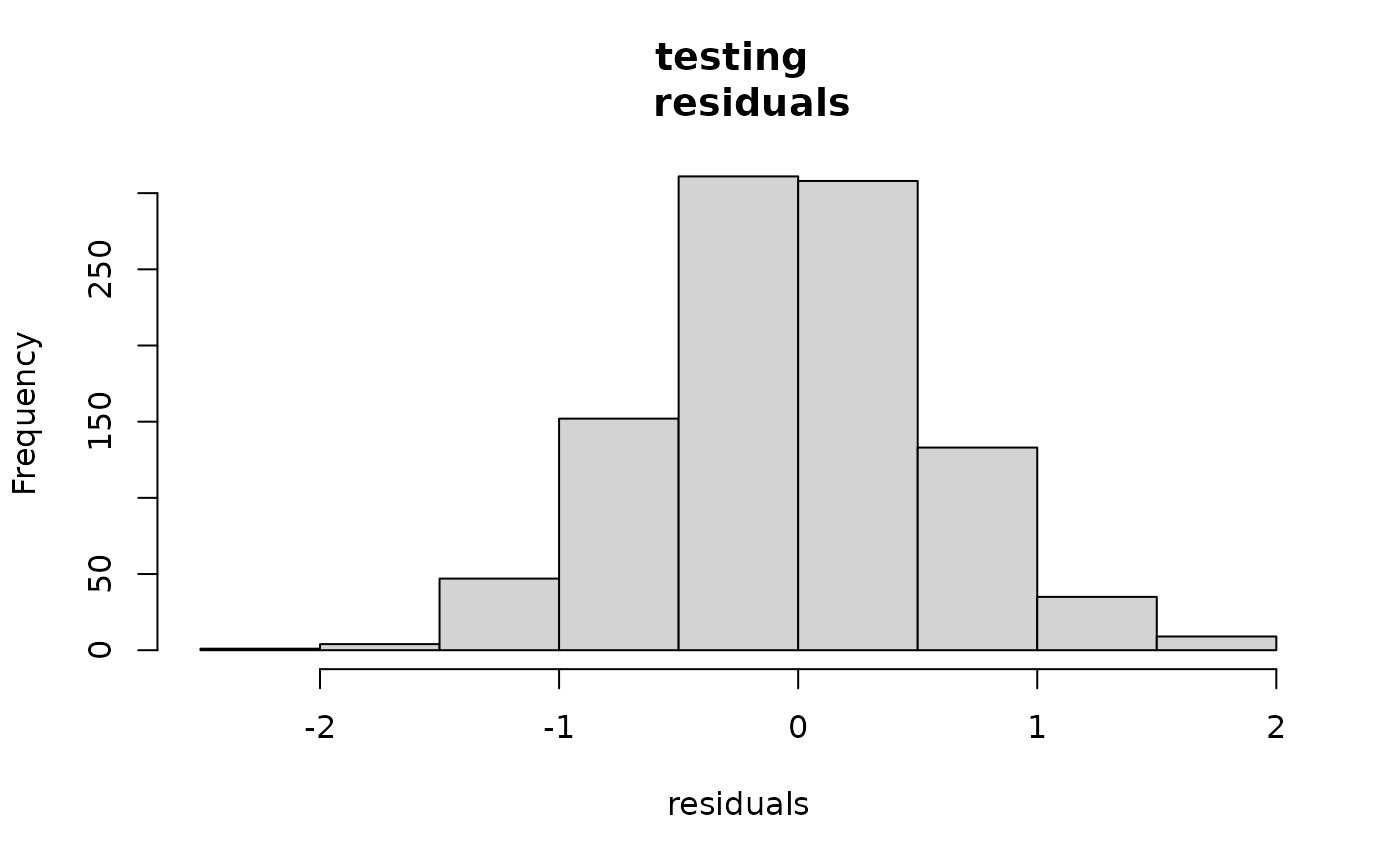
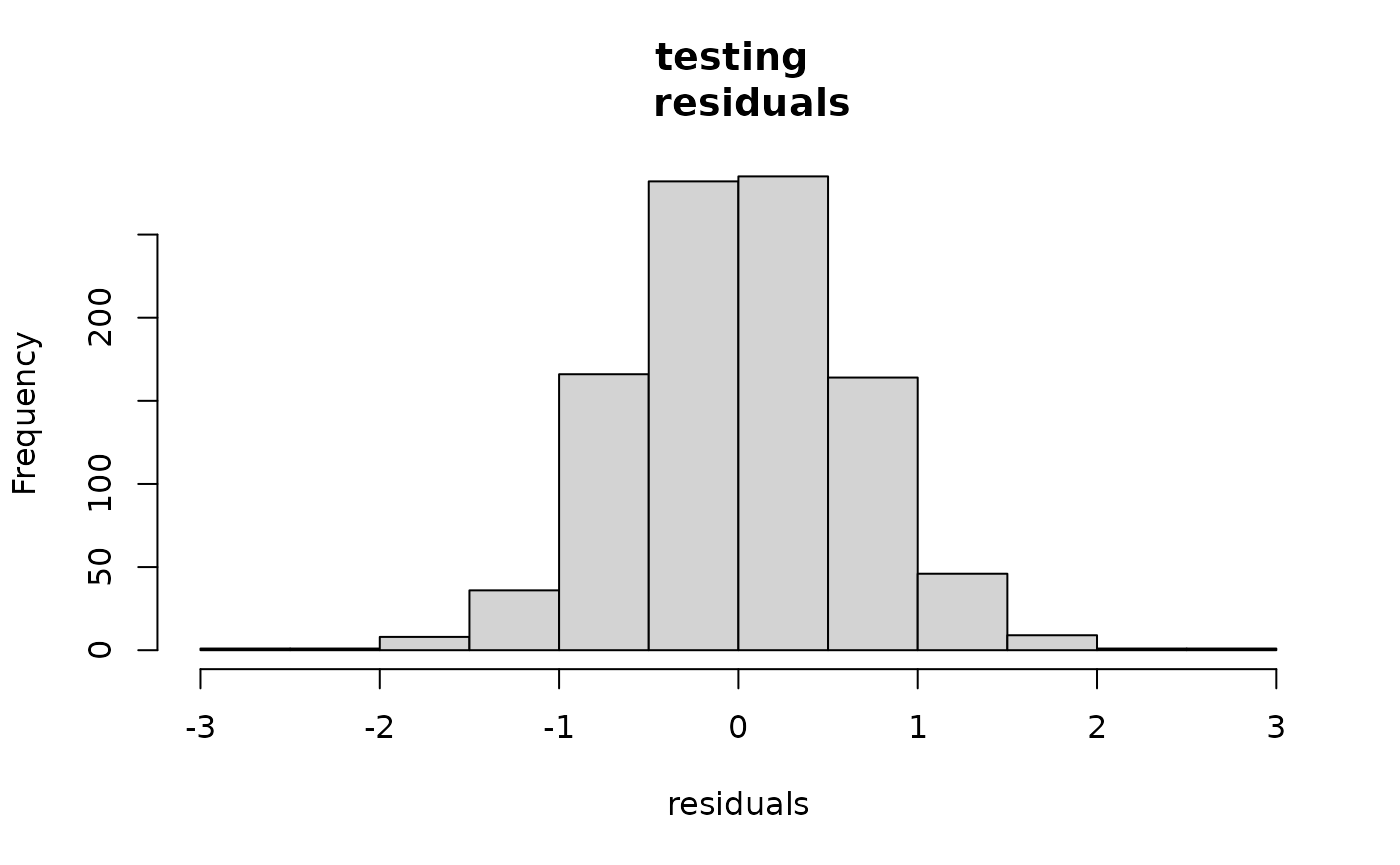
Built site for outerbase: 0.1.0@0571835

diff --git a/articles/learning.html b/articles/learning.html
@@ -154,15 +154,15 @@
 <span class="va">coeff0</span> <span class="op">=</span> <span class="fu"><a href="https://rdrr.io/r/base/rep.html" class="external-link">rep</a></span><span class="op">(</span><span class="fl">0</span>,<span class="va">loglik</span><span class="op">$</span><span class="va">nterms</span><span class="op">)</span>
 <span class="va">loglik</span><span class="op">$</span><span class="fu">update</span><span class="op">(</span><span class="va">coeff0</span><span class="op">)</span> <span class="co"># update it to get gradients</span>
 <span class="va">loglik</span><span class="op">$</span><span class="va">val</span>
-<span class="co">#&gt; [1] -160.7101</span>
+<span class="co">#&gt; [1] -154.5835</span>
 <span class="fu"><a href="https://rdrr.io/r/utils/head.html" class="external-link">head</a></span><span class="op">(</span><span class="va">loglik</span><span class="op">$</span><span class="va">grad</span><span class="op">)</span> <span class="co"># dim 60 for number of coeffients</span>
-<span class="co">#&gt;             [,1]</span>
-<span class="co">#&gt; [1,] -0.08982348</span>
-<span class="co">#&gt; [2,] -0.37662047</span>
-<span class="co">#&gt; [3,] -0.42188351</span>
-<span class="co">#&gt; [4,]  2.83584796</span>
-<span class="co">#&gt; [5,] -0.23054614</span>
-<span class="co">#&gt; [6,] -0.69450178</span></code></pre></div>
+<span class="co">#&gt;            [,1]</span>
+<span class="co">#&gt; [1,]  0.1037818</span>
+<span class="co">#&gt; [2,] -0.8199780</span>
+<span class="co">#&gt; [3,] -0.9035095</span>
+<span class="co">#&gt; [4,]  2.1541716</span>
+<span class="co">#&gt; [5,] -0.4297731</span>
+<span class="co">#&gt; [6,]  0.3917221</span></code></pre></div>
 <p>A reasonable statistical model also needs prior on the coefficients. This tells us what distribution we expect on the coefficients.</p>
 <div class="sourceCode" id="cb10"><pre class="downlit sourceCode r">
 <code class="sourceCode R"><span class="va">logpr</span> <span class="op">=</span> <span class="fu">new</span><span class="op">(</span><span class="va">logpr_gauss</span>, <span class="va">om</span>, <span class="va">terms</span><span class="op">)</span></code></pre></div>
@@ -172,12 +172,12 @@
 <span class="va">para0</span> <span class="op">=</span> <span class="fu"><a href="../reference/getpara.html">getpara</a></span><span class="op">(</span><span class="va">logpdf</span><span class="op">)</span>
 <span class="va">para0</span>
 <span class="co">#&gt; noisescale coeffscale </span>
-<span class="co">#&gt;   3.036223   6.000000</span>
+<span class="co">#&gt;   3.223278   6.000000</span>
 <span class="va">para0</span><span class="op">[</span><span class="fl">2</span><span class="op">]</span> <span class="op">=</span> <span class="fl">4</span>
 <span class="va">logpdf</span><span class="op">$</span><span class="fu">updatepara</span><span class="op">(</span><span class="va">para0</span><span class="op">)</span>
 <span class="fu"><a href="../reference/getpara.html">getpara</a></span><span class="op">(</span><span class="va">logpdf</span><span class="op">)</span>
 <span class="co">#&gt; noisescale coeffscale </span>
-<span class="co">#&gt;   3.036223   4.000000</span></code></pre></div>
+<span class="co">#&gt;   3.223278   4.000000</span></code></pre></div>
 <p>The coefficients <code>coeff</code> are considered ancillary parameters that need to be optimized out (or something more sophisticated, hint on current research). For this class, it is easiest to do this via <code>lpdf$optnewton</code>, which takes a single Newton step to optimize the coefficients.</p>
 <div class="sourceCode" id="cb12"><pre class="downlit sourceCode r">
 <code class="sourceCode R"><span class="va">logpdf</span><span class="op">$</span><span class="fu">optnewton</span><span class="op">(</span><span class="op">)</span></code></pre></div>
@@ -207,17 +207,17 @@
 <div class="sourceCode" id="cb15"><pre class="downlit sourceCode r">
 <code class="sourceCode R"><span class="va">logpdf</span><span class="op">$</span><span class="fu">optnewton</span><span class="op">(</span><span class="op">)</span>
 <span class="va">logpdf</span><span class="op">$</span><span class="va">gradhyp</span>    <span class="co"># dim 6 for all hyperparameter</span>
-<span class="co">#&gt;            [,1]</span>
-<span class="co">#&gt; [1,] -2.2467786</span>
-<span class="co">#&gt; [2,]  0.0745169</span>
-<span class="co">#&gt; [3,]  7.0862725</span>
-<span class="co">#&gt; [4,]  0.8148180</span>
-<span class="co">#&gt; [5,]  7.3426841</span>
-<span class="co">#&gt; [6,]  0.8010884</span>
+<span class="co">#&gt;             [,1]</span>
+<span class="co">#&gt; [1,] -2.29889771</span>
+<span class="co">#&gt; [2,]  0.01675102</span>
+<span class="co">#&gt; [3,]  6.30161244</span>
+<span class="co">#&gt; [4,]  0.69841592</span>
+<span class="co">#&gt; [5,]  6.79937367</span>
+<span class="co">#&gt; [6,]  0.74972531</span>
 <span class="va">logpdf</span><span class="op">$</span><span class="va">gradpara</span>   <span class="co"># dim 2 since 2 parameters</span>
 <span class="co">#&gt;           [,1]</span>
-<span class="co">#&gt; [1,] -18.86985</span>
-<span class="co">#&gt; [2,]  -1.86919</span></code></pre></div>
+<span class="co">#&gt; [1,] -18.97176</span>
+<span class="co">#&gt; [2,]  -1.40106</span></code></pre></div>
 <p>This allows us to use custom functions to learn these hyperparameters to give maximum predictive power. The goal right now is a single point estimate of these hyperparameters. One has to be very careful to keep these in good ranges, and the call below will make sure to return <code>-inf</code> if there is a problem with the chosen hyperparameters.</p>
 <div class="sourceCode" id="cb16"><pre class="downlit sourceCode r">
 <code class="sourceCode R"><span class="va">totobj</span> <span class="op">=</span> <span class="kw">function</span><span class="op">(</span><span class="va">parlist</span><span class="op">)</span> <span class="op">{</span> <span class="co">#my optimization function for tuning</span>
@@ -239,74 +239,74 @@
 <code class="sourceCode R"><span class="va">parlist</span> <span class="op">=</span> <span class="fu"><a href="https://rdrr.io/r/base/list.html" class="external-link">list</a></span><span class="op">(</span>para <span class="op">=</span> <span class="fu"><a href="../reference/getpara.html">getpara</a></span><span class="op">(</span><span class="va">logpdf</span><span class="op">)</span>, hyp <span class="op">=</span> <span class="fu"><a href="../reference/gethyp.html">gethyp</a></span><span class="op">(</span><span class="va">om</span><span class="op">)</span><span class="op">)</span>
 <span class="fu">totobj</span><span class="op">(</span><span class="va">parlist</span><span class="op">)</span>
 <span class="co">#&gt; $val</span>
-<span class="co">#&gt; [1] 86.1085</span>
+<span class="co">#&gt; [1] 90.21949</span>
 <span class="co">#&gt; </span>
 <span class="co">#&gt; $gval</span>
 <span class="co">#&gt; $gval$para</span>
-<span class="co">#&gt;          [,1]</span>
-<span class="co">#&gt; [1,] 18.86985</span>
-<span class="co">#&gt; [2,]  1.36919</span>
+<span class="co">#&gt;            [,1]</span>
+<span class="co">#&gt; [1,] 18.9717609</span>
+<span class="co">#&gt; [2,]  0.9010602</span>
 <span class="co">#&gt; </span>
 <span class="co">#&gt; $gval$hyp</span>
-<span class="co">#&gt;             [,1]</span>
-<span class="co">#&gt; [1,]  -3.1103642</span>
-<span class="co">#&gt; [2,]  -0.0745169</span>
-<span class="co">#&gt; [3,] -12.4434154</span>
-<span class="co">#&gt; [4,]  -0.8148180</span>
-<span class="co">#&gt; [5,] -12.6998270</span>
-<span class="co">#&gt; [6,]  -0.8010884</span>
+<span class="co">#&gt;              [,1]</span>
+<span class="co">#&gt; [1,]  -3.05824515</span>
+<span class="co">#&gt; [2,]  -0.01675102</span>
+<span class="co">#&gt; [3,] -11.65875530</span>
+<span class="co">#&gt; [4,]  -0.69841592</span>
+<span class="co">#&gt; [5,] -12.15651653</span>
+<span class="co">#&gt; [6,]  -0.74972531</span>
 <span class="va">opth</span> <span class="op">=</span> <span class="fu"><a href="../reference/BFGS_std.html">BFGS_std</a></span><span class="op">(</span><span class="va">totobj</span>, <span class="va">parlist</span>, verbose<span class="op">=</span><span class="fl">3</span><span class="op">)</span> <span class="co">#</span>
 <span class="co">#&gt; [1] "doing opt..."</span>
 <span class="co">#&gt; [1] "Wolfe conditions"</span>
-<span class="co">#&gt; [1]  -2.543082 -45.439669</span>
-<span class="co">#&gt; [1] 83.56492</span>
+<span class="co">#&gt; [1]  -2.803293 -36.372524</span>
+<span class="co">#&gt; [1] 87.41572</span>
 <span class="co">#&gt; [1] "Wolfe conditions"</span>
-<span class="co">#&gt; [1] -1.0374504  0.7747972</span>
-<span class="co">#&gt; [1] 75.96987</span>
+<span class="co">#&gt; [1] -1.1104148  0.7904893</span>
+<span class="co">#&gt; [1] 83.15925</span>
 <span class="co">#&gt; [1] "Wolfe conditions"</span>
-<span class="co">#&gt; [1] -13.30154 -62.37942</span>
-<span class="co">#&gt; [1] 62.66481</span>
+<span class="co">#&gt; [1] -16.08309 -22.00971</span>
+<span class="co">#&gt; [1] 67.07403</span>
 <span class="co">#&gt; [1] "Wolfe conditions"</span>
-<span class="co">#&gt; [1]  -7.971211 -18.725923</span>
-<span class="co">#&gt; [1] 54.69173</span>
+<span class="co">#&gt; [1] -6.445922 -4.350100</span>
+<span class="co">#&gt; [1] 60.62733</span>
 <span class="co">#&gt; [1] "Wolfe conditions"</span>
-<span class="co">#&gt; [1] -7.0232894 -0.4355899</span>
-<span class="co">#&gt; [1] 47.66768</span>
+<span class="co">#&gt; [1] -8.898894 -8.544808</span>
+<span class="co">#&gt; [1] 51.7273</span>
 <span class="co">#&gt; [1] "Wolfe conditions"</span>
-<span class="co">#&gt; [1] -12.73953 -60.33919</span>
-<span class="co">#&gt; [1] 34.9238</span>
+<span class="co">#&gt; [1] -7.560037 -4.861970</span>
+<span class="co">#&gt; [1] 44.16633</span>
 <span class="co">#&gt; [1] "Wolfe conditions"</span>
-<span class="co">#&gt; [1]  -3.393848 -16.764454</span>
-<span class="co">#&gt; [1] 31.52852</span>
+<span class="co">#&gt; [1] -6.753155 -5.837951</span>
+<span class="co">#&gt; [1] 37.41231</span>
 <span class="co">#&gt; [1] "Wolfe conditions"</span>
-<span class="co">#&gt; [1] -0.9501185 -3.8245236</span>
-<span class="co">#&gt; [1] 30.57809</span>
+<span class="co">#&gt; [1] -3.385748 -9.704727</span>
+<span class="co">#&gt; [1] 34.02594</span>
 <span class="co">#&gt; [1] "Wolfe conditions"</span>
-<span class="co">#&gt; [1] -0.3354883 -1.4002641</span>
-<span class="co">#&gt; [1] 30.24247</span>
+<span class="co">#&gt; [1] -0.3423167 -1.7497803</span>
+<span class="co">#&gt; [1] 33.68353</span>
 <span class="co">#&gt; [1] "Wolfe conditions"</span>
-<span class="co">#&gt; [1] -0.09008546 -0.19099465</span>
+<span class="co">#&gt; [1] -0.04135020 -0.02582447</span>
 <span class="co">#&gt; [1] "finished opt..."</span></code></pre></div>
 <p>Then we just have to update out parameters and re-optimize, and we can check that we are at least must closer to stationary point.</p>
 <div class="sourceCode" id="cb18"><pre class="downlit sourceCode r">
 <code class="sourceCode R"><span class="fu">totobj</span><span class="op">(</span><span class="va">opth</span><span class="op">$</span><span class="va">par</span><span class="op">)</span>
 <span class="co">#&gt; $val</span>
-<span class="co">#&gt; [1] 30.15237</span>
+<span class="co">#&gt; [1] 33.64218</span>
 <span class="co">#&gt; </span>
 <span class="co">#&gt; $gval</span>
 <span class="co">#&gt; $gval$para</span>
 <span class="co">#&gt;            [,1]</span>
-<span class="co">#&gt; [1,]  0.2043193</span>
-<span class="co">#&gt; [2,] -0.7216317</span>
+<span class="co">#&gt; [1,] -0.6253316</span>
+<span class="co">#&gt; [2,] -0.3563686</span>
 <span class="co">#&gt; </span>
 <span class="co">#&gt; $gval$hyp</span>
-<span class="co">#&gt;             [,1]</span>
-<span class="co">#&gt; [1,]  0.28198626</span>
-<span class="co">#&gt; [2,]  0.25268431</span>
-<span class="co">#&gt; [3,]  0.69456892</span>
-<span class="co">#&gt; [4,]  0.25800426</span>
-<span class="co">#&gt; [5,]  0.36277765</span>
-<span class="co">#&gt; [6,] -0.05851311</span></code></pre></div>
+<span class="co">#&gt;            [,1]</span>
+<span class="co">#&gt; [1,] -1.6721776</span>
+<span class="co">#&gt; [2,] -0.5421035</span>
+<span class="co">#&gt; [3,] -0.8130574</span>
+<span class="co">#&gt; [4,] -1.3953348</span>
+<span class="co">#&gt; [5,] -2.2099222</span>
+<span class="co">#&gt; [6,] -1.0318738</span></code></pre></div>
 <p>These steps can all be nicely wrapped up in another function <code><a href="../reference/BFGS_lpdf.html">?BFGS_lpdf</a></code>, which is a simpler call with the same result. Note because of some things not fully understood, these numbers will not match <em>exactly</em> above, but they will be quite close and functionally the same.</p>
 <div class="sourceCode" id="cb19"><pre class="downlit sourceCode r">
 <code class="sourceCode R"><span class="va">opth</span> <span class="op">=</span> <span class="fu"><a href="../reference/BFGS_lpdf.html">BFGS_lpdf</a></span><span class="op">(</span><span class="va">om</span>, <span class="va">logpdf</span>, 
@@ -314,37 +314,34 @@
                  verbose <span class="op">=</span> <span class="fl">3</span>, newt<span class="op">=</span> <span class="cn">T</span><span class="op">)</span>  
 <span class="co">#&gt; [1] "doing opt..."</span>
 <span class="co">#&gt; [1] "Wolfe conditions"</span>
-<span class="co">#&gt; [1]  -2.543082 -45.439669</span>
-<span class="co">#&gt; [1] 83.56492</span>
+<span class="co">#&gt; [1]  -2.803293 -36.372524</span>
+<span class="co">#&gt; [1] 87.41572</span>
 <span class="co">#&gt; [1] "Wolfe conditions"</span>
-<span class="co">#&gt; [1] -1.0374504  0.7747972</span>
-<span class="co">#&gt; [1] 75.7476</span>
+<span class="co">#&gt; [1] -1.1104148  0.7904893</span>
+<span class="co">#&gt; [1] 83.15925</span>
 <span class="co">#&gt; [1] "Wolfe conditions"</span>
-<span class="co">#&gt; [1]  -9.08536 -87.70176</span>
-<span class="co">#&gt; [1] 66.65842</span>
+<span class="co">#&gt; [1] -16.08309 -22.00971</span>
+<span class="co">#&gt; [1] 67.07403</span>
 <span class="co">#&gt; [1] "Wolfe conditions"</span>
-<span class="co">#&gt; [1] -10.96653 -36.06925</span>
-<span class="co">#&gt; [1] 55.68864</span>
+<span class="co">#&gt; [1] -6.445922 -4.350100</span>
+<span class="co">#&gt; [1] 60.62733</span>
 <span class="co">#&gt; [1] "Wolfe conditions"</span>
-<span class="co">#&gt; [1] -6.1912041 -0.1808788</span>
-<span class="co">#&gt; [1] 49.49678</span>
+<span class="co">#&gt; [1] -8.898894 -8.544808</span>
+<span class="co">#&gt; [1] 51.7273</span>
 <span class="co">#&gt; [1] "Wolfe conditions"</span>
-<span class="co">#&gt; [1] -10.81943 -88.95870</span>
-<span class="co">#&gt; [1] 38.67212</span>
+<span class="co">#&gt; [1] -7.560037 -4.861970</span>
+<span class="co">#&gt; [1] 44.16633</span>
 <span class="co">#&gt; [1] "Wolfe conditions"</span>
-<span class="co">#&gt; [1]  -1.765363 -45.186544</span>
-<span class="co">#&gt; [1] 36.90322</span>
+<span class="co">#&gt; [1] -6.753155 -5.837951</span>
+<span class="co">#&gt; [1] 37.41231</span>
 <span class="co">#&gt; [1] "Wolfe conditions"</span>
-<span class="co">#&gt; [1] -5.530817 -9.564180</span>
-<span class="co">#&gt; [1] 31.37129</span>
+<span class="co">#&gt; [1] -3.385748 -9.704727</span>
+<span class="co">#&gt; [1] 34.02594</span>
 <span class="co">#&gt; [1] "Wolfe conditions"</span>
-<span class="co">#&gt; [1] -1.128216 -2.536217</span>
-<span class="co">#&gt; [1] 30.24281</span>
+<span class="co">#&gt; [1] -0.3423167 -1.7497803</span>
+<span class="co">#&gt; [1] 33.68353</span>
 <span class="co">#&gt; [1] "Wolfe conditions"</span>
-<span class="co">#&gt; [1] -0.06653211 -0.33401501</span>
-<span class="co">#&gt; [1] 30.17625</span>
-<span class="co">#&gt; [1] "Wolfe conditions"</span>
-<span class="co">#&gt; [1] -0.02778653 -0.06042550</span>
+<span class="co">#&gt; [1] -0.04135020 -0.02582446</span>
 <span class="co">#&gt; [1] "finished opt..."</span></code></pre></div>
 <p>The revised predictions are then built after hyperparameter optimization where we find improved predictive accuracy in nearly every category. Here we can see a much better alignment between predictions and actual alongside a better plot of standardized residuals (more like a standard normal distribution).</p>
 <div class="sourceCode" id="cb20"><pre class="downlit sourceCode r">

diff --git a/articles/basebasics.html b/articles/basebasics.html
@@ -233,11 +233,11 @@
 <span class="fu"><a href="https://rdrr.io/r/utils/head.html" class="external-link">head</a></span><span class="op">(</span><span class="va">terms</span><span class="op">)</span>
 <span class="co">#&gt;      [,1] [,2] [,3]</span>
 <span class="co">#&gt; [1,]    0    0    0</span>
-<span class="co">#&gt; [2,]    0    0    1</span>
+<span class="co">#&gt; [2,]    1    0    0</span>
 <span class="co">#&gt; [3,]    0    1    0</span>
-<span class="co">#&gt; [4,]    1    0    0</span>
+<span class="co">#&gt; [4,]    0    0    1</span>
 <span class="co">#&gt; [5,]    1    0    1</span>
-<span class="co">#&gt; [6,]    0    1    1</span></code></pre></div>
+<span class="co">#&gt; [6,]    1    1    0</span></code></pre></div>
 <p><code>outermod$getvar</code> returns the vector of variances associated with these coefficients at these <code>terms</code>.</p>
 <div class="sourceCode" id="cb20"><pre class="downlit sourceCode r">
 <code class="sourceCode R"><span class="va">covcoeff</span> <span class="op">=</span> <span class="fu"><a href="https://rdrr.io/r/base/vector.html" class="external-link">as.vector</a></span><span class="op">(</span><span class="va">om</span><span class="op">$</span><span class="fu">getvar</span><span class="op">(</span><span class="va">terms</span><span class="op">)</span><span class="op">)</span></code></pre></div>
@@ -251,12 +251,12 @@
   <span class="va">ob</span><span class="op">$</span><span class="fu">getbase</span><span class="op">(</span><span class="fl">3</span><span class="op">)</span><span class="op">[</span>,<span class="va">terms</span><span class="op">[</span><span class="va">termno</span>,<span class="fl">3</span><span class="op">]</span><span class="op">+</span><span class="fl">1</span><span class="op">]</span>
 
 <span class="fu"><a href="https://rdrr.io/r/base/cbind.html" class="external-link">cbind</a></span><span class="op">(</span><span class="va">basevec</span><span class="op">[</span><span class="fl">1</span><span class="op">:</span><span class="fl">5</span><span class="op">]</span>,<span class="va">basismat</span><span class="op">[</span><span class="fl">1</span><span class="op">:</span><span class="fl">5</span>,<span class="fl">5</span><span class="op">]</span><span class="op">)</span> <span class="co"># expect equal</span>
-<span class="co">#&gt;             [,1]        [,2]</span>
-<span class="co">#&gt; [1,] -1.83622423 -1.83622423</span>
-<span class="co">#&gt; [2,] -1.56855990 -1.56855990</span>
-<span class="co">#&gt; [3,] -0.80612436 -0.80612436</span>
-<span class="co">#&gt; [4,] -0.09418555 -0.09418555</span>
-<span class="co">#&gt; [5,] -1.45606931 -1.45606931</span></code></pre></div>
+<span class="co">#&gt;            [,1]       [,2]</span>
+<span class="co">#&gt; [1,] -1.0907963 -1.0907963</span>
+<span class="co">#&gt; [2,]  0.3034932  0.3034932</span>
+<span class="co">#&gt; [3,]  1.8293613  1.8293613</span>
+<span class="co">#&gt; [4,]  1.9814146  1.9814146</span>
+<span class="co">#&gt; [5,]  1.6803889  1.6803889</span></code></pre></div>
 </div>
 </div>
 <div class="section level2">
@@ -269,18 +269,18 @@
 
 <span class="fu"><a href="https://rdrr.io/r/base/print.html" class="external-link">print</a></span><span class="op">(</span><span class="fu"><a href="https://rdrr.io/r/base/Round.html" class="external-link">round</a></span><span class="op">(</span><span class="va">cormattot</span><span class="op">[</span><span class="fl">1</span><span class="op">:</span><span class="fl">5</span>,<span class="fl">1</span><span class="op">:</span><span class="fl">5</span><span class="op">]</span>,<span class="fl">3</span><span class="op">)</span><span class="op">)</span> <span class="co"># typical gp</span>
 <span class="co">#&gt;       [,1]  [,2]  [,3]  [,4]  [,5]</span>
-<span class="co">#&gt; [1,] 1.000 0.981 0.677 0.748 0.972</span>
-<span class="co">#&gt; [2,] 0.981 1.000 0.771 0.842 0.985</span>
-<span class="co">#&gt; [3,] 0.677 0.771 1.000 0.932 0.735</span>
-<span class="co">#&gt; [4,] 0.748 0.842 0.932 1.000 0.811</span>
-<span class="co">#&gt; [5,] 0.972 0.985 0.735 0.811 1.000</span>
+<span class="co">#&gt; [1,] 1.000 0.828 0.274 0.466 0.619</span>
+<span class="co">#&gt; [2,] 0.828 1.000 0.538 0.780 0.838</span>
+<span class="co">#&gt; [3,] 0.274 0.538 1.000 0.834 0.582</span>
+<span class="co">#&gt; [4,] 0.466 0.780 0.834 1.000 0.878</span>
+<span class="co">#&gt; [5,] 0.619 0.838 0.582 0.878 1.000</span>
 <span class="fu"><a href="https://rdrr.io/r/base/print.html" class="external-link">print</a></span><span class="op">(</span><span class="fu"><a href="https://rdrr.io/r/base/Round.html" class="external-link">round</a></span><span class="op">(</span><span class="va">cormatob</span><span class="op">[</span><span class="fl">1</span><span class="op">:</span><span class="fl">5</span>,<span class="fl">1</span><span class="op">:</span><span class="fl">5</span><span class="op">]</span>,<span class="fl">3</span><span class="op">)</span><span class="op">)</span> <span class="co"># outerbase</span>
 <span class="co">#&gt;       [,1]  [,2]  [,3]  [,4]  [,5]</span>
-<span class="co">#&gt; [1,] 1.000 0.981 0.677 0.748 0.972</span>
-<span class="co">#&gt; [2,] 0.981 1.000 0.771 0.842 0.985</span>
-<span class="co">#&gt; [3,] 0.677 0.771 1.000 0.932 0.735</span>
-<span class="co">#&gt; [4,] 0.748 0.842 0.932 1.000 0.811</span>
-<span class="co">#&gt; [5,] 0.972 0.985 0.735 0.811 1.000</span></code></pre></div>
+<span class="co">#&gt; [1,] 0.999 0.828 0.274 0.466 0.619</span>
+<span class="co">#&gt; [2,] 0.828 1.000 0.538 0.780 0.839</span>
+<span class="co">#&gt; [3,] 0.274 0.538 0.999 0.834 0.582</span>
+<span class="co">#&gt; [4,] 0.466 0.780 0.834 1.000 0.878</span>
+<span class="co">#&gt; [5,] 0.619 0.839 0.582 0.878 1.000</span></code></pre></div>
 <p>They means that we can leverage <a href="https://en.wikipedia.org/wiki/Bayesian_linear_regression" class="external-link">Bayesian linear regression</a> to do prediction. This will require assuming that there is some <code>noisevar</code>, which is also called the nugget in the Gaussian process literature.</p>
 <div class="sourceCode" id="cb23"><pre class="downlit sourceCode r">
 <code class="sourceCode R"><span class="va">noisevar</span> <span class="op">=</span> <span class="fl">10</span><span class="op">^</span><span class="op">(</span><span class="op">-</span><span class="fl">4</span><span class="op">)</span>

diff --git a/articles/speed.html b/articles/speed.html
@@ -165,7 +165,7 @@
 <span class="va">yhat_slow</span> <span class="op">=</span> <span class="fu"><a href="https://rdrr.io/r/base/vector.html" class="external-link">as.vector</a></span><span class="op">(</span><span class="va">pred_slow</span><span class="op">$</span><span class="fu">mean</span><span class="op">(</span><span class="op">)</span><span class="op">)</span>
 <span class="fu"><a href="https://rdrr.io/r/base/print.html" class="external-link">print</a></span><span class="op">(</span><span class="va">t_slow</span><span class="op">)</span>
 <span class="co">#&gt;    user  system elapsed </span>
-<span class="co">#&gt;  21.652   0.024  20.736</span></code></pre></div>
+<span class="co">#&gt;  19.688   0.024  18.813</span></code></pre></div>
 <div class="sourceCode" id="cb15"><pre class="downlit sourceCode r">
 <code class="sourceCode R"><span class="va">ptm</span> <span class="op">=</span> <span class="fu"><a href="https://rdrr.io/r/base/proc.time.html" class="external-link">proc.time</a></span><span class="op">(</span><span class="op">)</span>
 <span class="va">opth</span> <span class="op">=</span> <span class="fu"><a href="../reference/BFGS_lpdf.html">BFGS_lpdf</a></span><span class="op">(</span><span class="va">om</span>, <span class="va">logpdf_fast</span>, 
@@ -176,7 +176,7 @@
 <span class="va">yhat_fast</span> <span class="op">=</span> <span class="fu"><a href="https://rdrr.io/r/base/vector.html" class="external-link">as.vector</a></span><span class="op">(</span><span class="va">pred_fast</span><span class="op">$</span><span class="fu">mean</span><span class="op">(</span><span class="op">)</span><span class="op">)</span>
 <span class="fu"><a href="https://rdrr.io/r/base/print.html" class="external-link">print</a></span><span class="op">(</span><span class="va">t_fast</span><span class="op">)</span>
 <span class="co">#&gt;    user  system elapsed </span>
-<span class="co">#&gt;   2.212   0.145   1.571</span></code></pre></div>
+<span class="co">#&gt;   2.526   0.100   1.630</span></code></pre></div>
 </div>
 <div class="section level2">
 <h2 id="comparison-of-results">Comparison of results<a class="anchor" aria-label="anchor" href="#comparison-of-results"></a>
